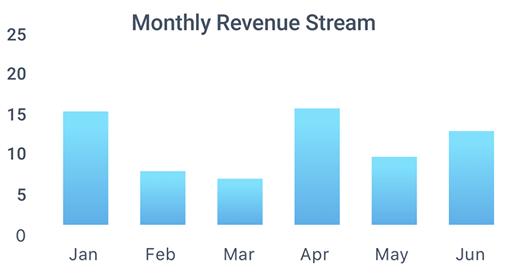
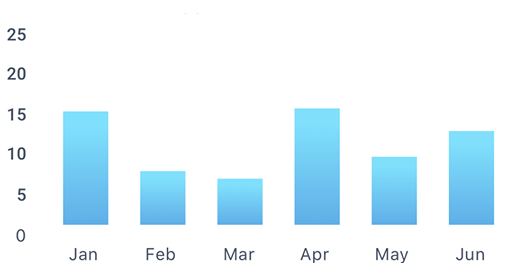
interactions with profile and data-settings

diff --git a/src/app/data-settings/data-settings.component.ts b/src/app/data-settings/data-settings.component.ts
@@ -9,8 +9,10 @@ import { Constants } from './constants';
 export class DataSettingsComponent implements OnInit {
 
   private levels: any = [];
-  private text: any = ["Select", "Select", "Select"];
-  private btnClass: any = ["btn-primary","btn-primary","btn-primary" ];
+  private text: any = ["Select", "Selected", "Select"];
+  private btnClass: any = ["btn-primary","btn-secondary","btn-primary" ];
+  private revenue: number = 7;
+
   constructor() {
       const constants = new Constants();
       this.levels = constants.levels;
@@ -26,6 +28,21 @@ export class DataSettingsComponent implements OnInit {
       for(var i = 0; i < this.btnClass.length; i++) {
           this.btnClass[i] = i == level.index ? "btn-secondary" : "btn-primary";
       }
+
+      switch(level.title) {
+        case "High": {
+          this.revenue = 10;
+          break;
+        }
+        case "Medium": {
+          this.revenue = 7;
+          break;
+        }
+        case "Low": {
+          this.revenue = 4;
+          break;
+        }
+      }
       return level.isActive = !level.isActive;
-  }
+  } 
 }

diff --git a/src/app/profile/profile.component.css b/src/app/profile/profile.component.css
@@ -52,6 +52,16 @@ h3 {
     margin-top: 20px;
 }
 
+/*---Monthly Revenue Stream----*/
+
+#a img {
+    display: block;
+    margin-left: auto;
+    margin-right: auto;
+    height: auto;
+    width: 80%;
+}
+
 /*--Balance---*/
 
 .money_earned {

diff --git a/src/app/data-settings/data-settings.component.html b/src/app/data-settings/data-settings.component.html
@@ -64,7 +64,7 @@
         <div id="d">
             <h3>Revenue Estimates</h3>
 
-            <h1>$5/month</h1>
+            <h1>${{revenue}}/month</h1>
         </div>
     </div>
 </div>

diff --git a/src/app/profile/profile.component.html b/src/app/profile/profile.component.html
@@ -3,6 +3,7 @@
 
         <div id="a">
             <h3>Monthly Revenue Stream</h3>
+            <img class="bargraph" src="assets/bargraph.png">
         </div>
 
         <div id="b">
